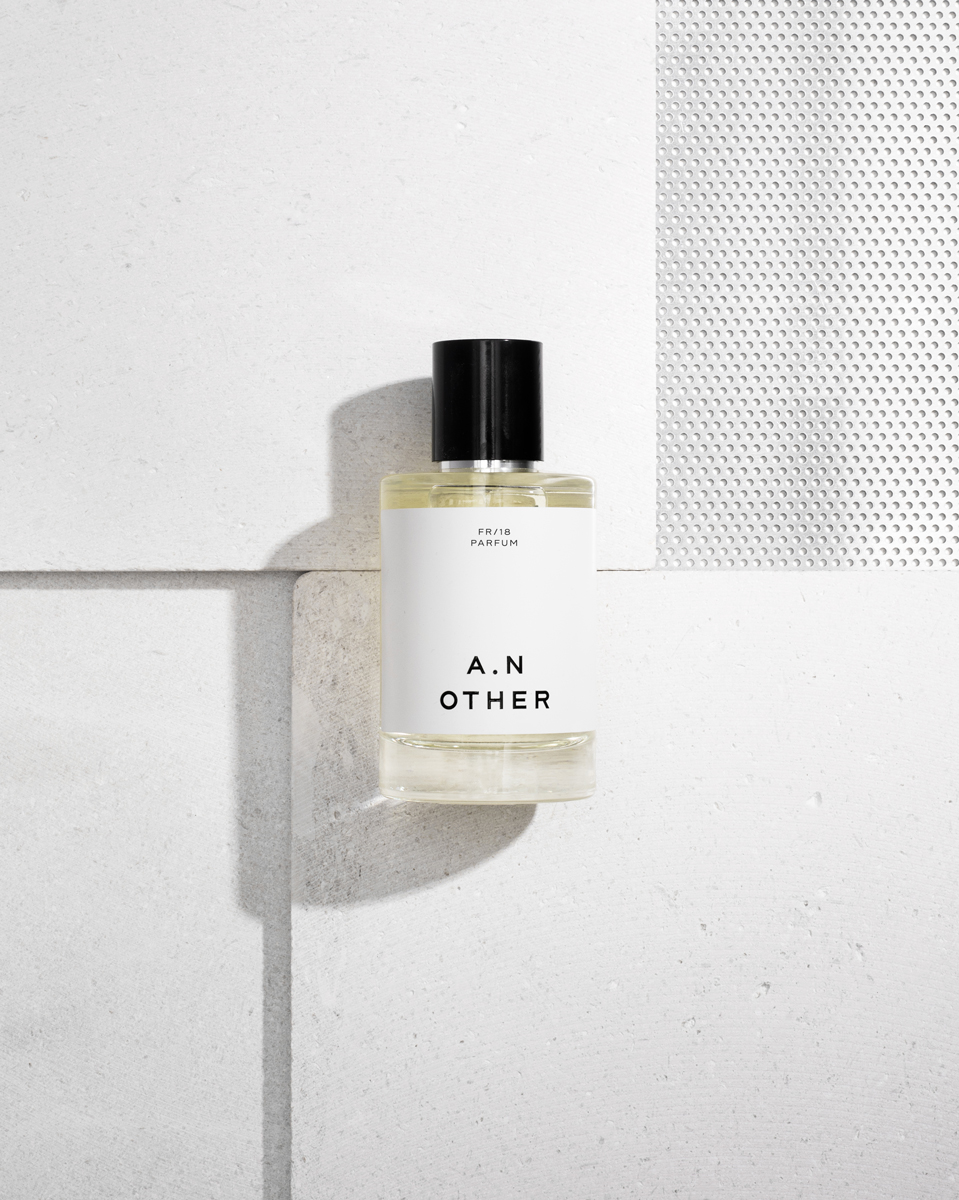
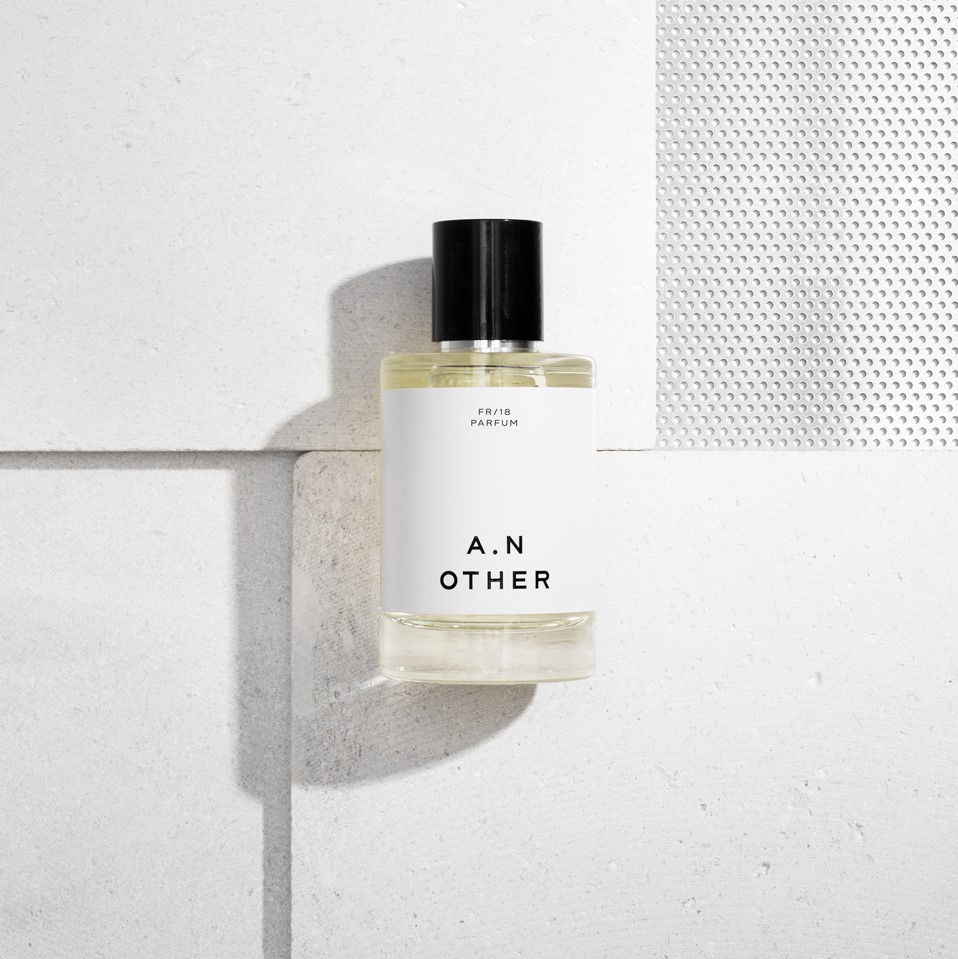
change img size

diff --git a/index.html b/index.html
@@ -30,10 +30,10 @@
         <!-- Page Content -->
 		<div class="container index1">
 			<div class="container-item">
-				<img class="index-first-img"src="img/placeholder.jpg" alt="home">
+				<img class="index-first-img"src="img/perfume8.jpg" alt="home">
 			</div>
 			<div class="container-item text">
-				<h2>Lorem ipsum dolor</h2>
+				<h2>"PERFUME EXTRAORDINAIRE"</h2>
 				<a href="products.html" class="button-1"><span>Shop now</span></a>
 			</div>
 		</div>
